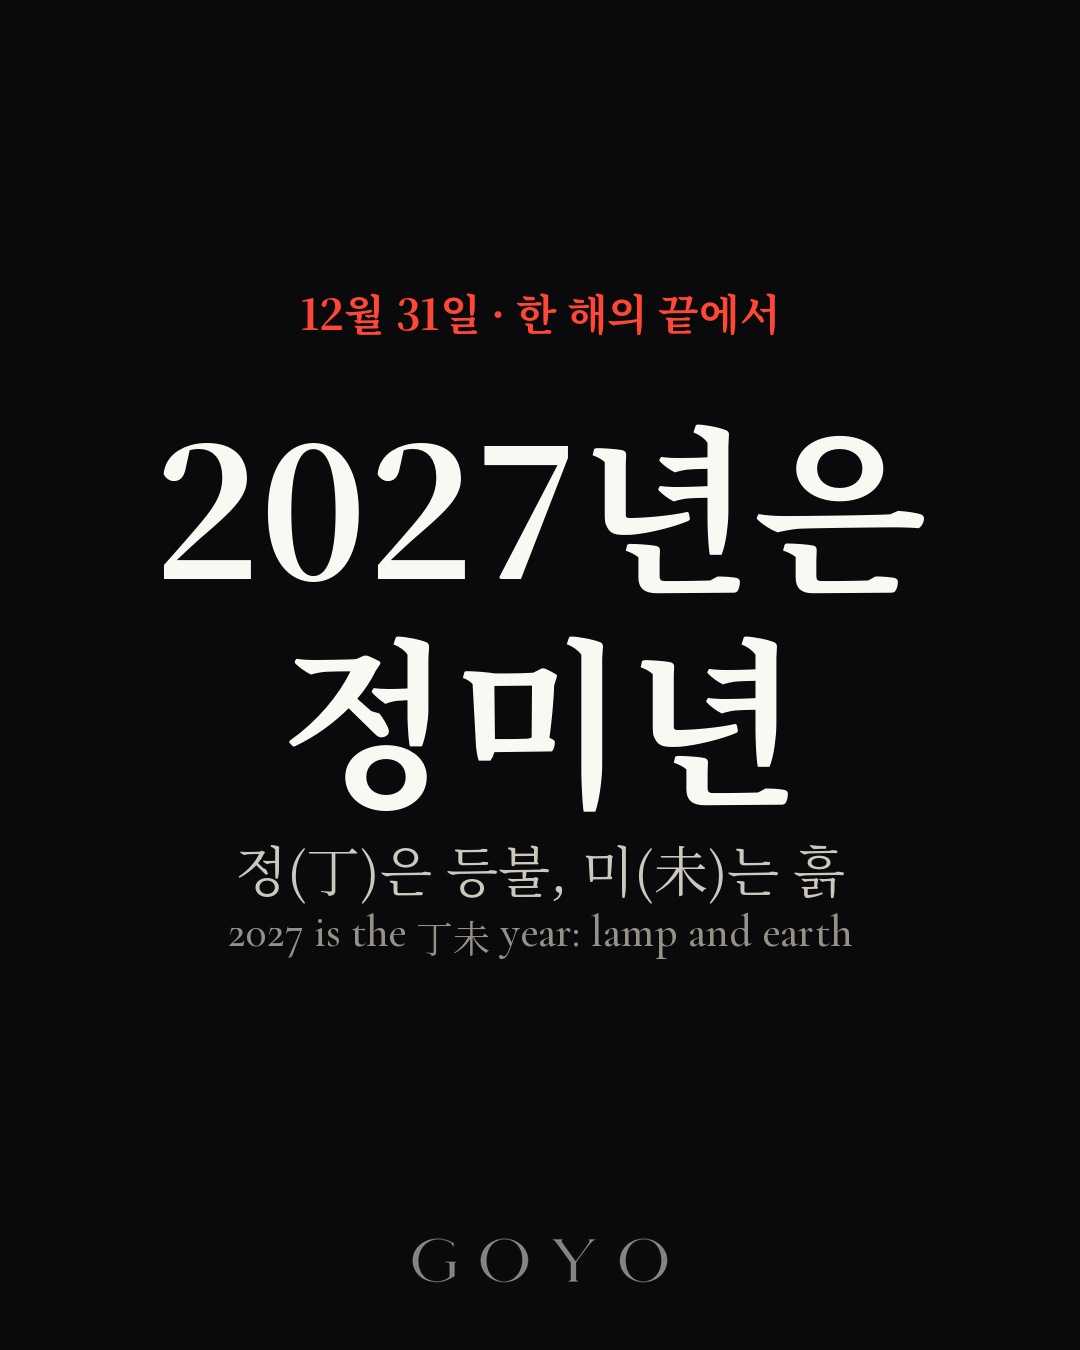
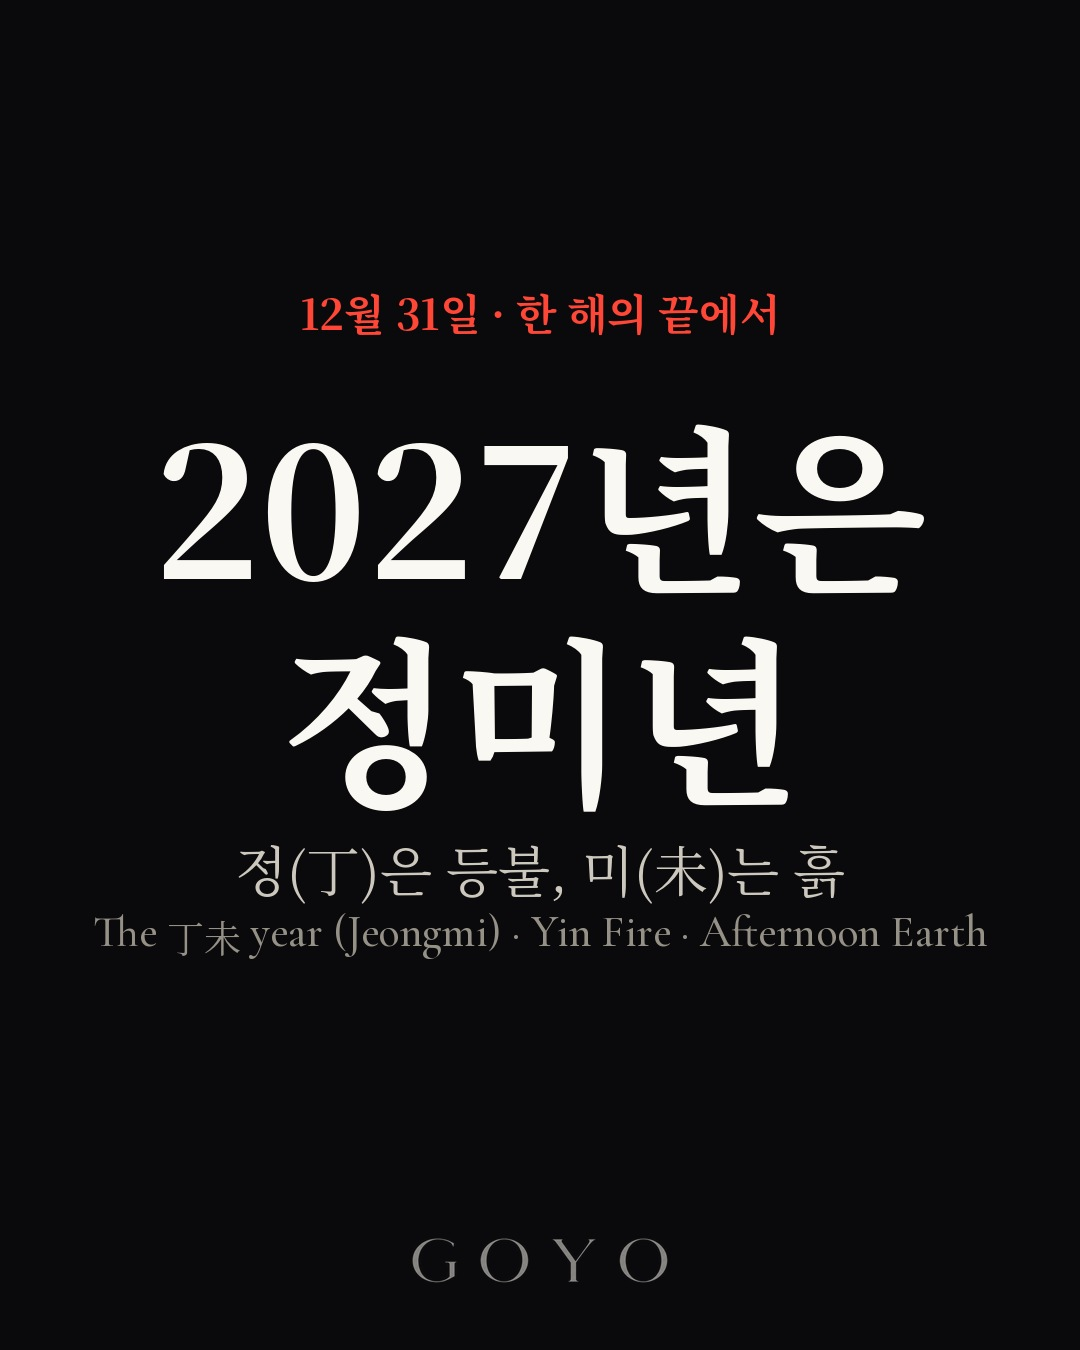
영어 천간·지지 표기 최종 규칙 적용 (총괄 창 11/21 19:50): 12/31, 1/1·1/3·1/4
지지 시각+오행(子 Midnight Water (Jasu) 등), 해 이름 the 丁未 year (Jeongmi) · Yin Fire · Afternoon Earth, 영어 일진 나열은 뺌

Claude-Session: https://claude.ai/code/session_01YKKUv5W4Y1G1o2h4KJ6tQ6

Changed region(s): [[0.1833, 0.6844, 0.9167, 0.7156], [0.0917, 0.6844, 0.1528, 0.7156]]

diff --git a/jeongmi/build.py b/jeongmi/build.py
@@ -28,7 +28,7 @@ P['0101'] = dict(
      T('불이 꺼지는 해라기보다\n불이 무르익는 해로 읽어요.', 44, gap=36),
      T('2025 early, 2026 high, 2027 late summer: summer ripens fully in 2027.', 34, EN, gap=0)], tag='세 해의 여름'),
   S([T('미(未)는 늦여름의 마른 흙,\n나무를 품어 두는\n창고 같은 흙이에요.', 54, gap=34), T('그동안 키운 것을\n조용히 넣어 두는 해예요.', 62, bold=True, gap=36),
-     T('未 is dry late-summer earth that stores what has grown. A year to keep what you raised.', 34, EN, gap=0)], tag='넣어 두는 흙'),
+     T('未 Afternoon Earth (Mito) is dry late-summer earth that stores what has grown. A year to keep what you raised.', 34, EN, gap=0)], tag='넣어 두는 흙'),
   S([
      *IL('갑목', '생각을 말과 손으로 꺼내, 눈에 보이는\n성과로 바꿔 가는 해로 읽을 수 있어요.', 20),
      *IL('을목', '좋아하는 것을 즐기다 보면,\n그것이 움직이는 기회로 이어질 수 있어요.', 20),
@@ -76,13 +76,13 @@ P['0101'] = dict(
 · English ·
 After the big sun, a small lamp.
 
-2027 is the 丁未 year: a year when a blazing fire becomes a small lamp and settles into the earth. If 2026 was 丙, the sun in the sky, then 2027 is 丁, a lamp that keeps lighting what is close. Early summer in 2025, high summer in 2026, late summer in 2027: the three summer years ripen fully in 2027. 未 is late-summer earth, a storehouse that holds Wood, so we read 2027 as a year to quietly keep what you have raised.
+2027 is the 丁未 year (Jeongmi) · Yin Fire · Afternoon Earth: a year when a blazing fire becomes a small lamp and settles into the earth. If 2026 was 丙火 Yang Fire (Byeonghwa), the sun in the sky, then 2027's Yin Fire is a lamp that keeps lighting what is close. Early summer in 2025, high summer in 2026, late summer in 2027: the three summer years ripen fully in 2027. Afternoon Earth is late-summer earth, a storehouse that holds Wood, so we read 2027 as a year to quietly keep what you have raised.
 
 In Saju, the year turns at the start of spring (立春). In 2027, it falls on February 4 at 10:46 a.m. Korea Standard Time.
 
 A one-line reading for each day master is on slides 6 and 7. Find your day master in our free app through the link in bio.
 
-Music true to the year's character, 丁: Five Kinds of Quiet · 丁火 Yin Fire (Jeonghwa). The first track is Lamplit Keys. Listen through the link in bio.
+Music true to the year's own character: Five Kinds of Quiet · Yin Fire. The first track is Lamplit Keys. Listen through the link in bio.
 
 #고요 #정미년 #2027년 #새해 #사주 #오행 #일간 #오행음악 #saju #fiveelements""",
  reel_caption="""큰 해 다음엔, 작은 등불.
@@ -92,9 +92,9 @@ Music true to the year's character, 丁: Five Kinds of Quiet · 丁火 Yin Fire 
 내 일간으로 읽은 2027년은 피드 게시물에 있어요. 지금 흐르는 음악은 『다섯 가지 고요｜정화(丁火)』의 첫 곡 『Lamplit Keys』, 프로필 링크에서 들을 수 있어요.
 
 · English ·
-After the big sun, a small lamp. 2027, the 丁未 year, is when a blazing fire becomes a small lamp and settles into the earth. If 2026 was the sun in the sky, 2027 is a lamp that keeps lighting what is close. In Saju, the year turns at the start of spring (立春), February 4, 10:46 a.m. Korea Standard Time.
+After the big sun, a small lamp. 2027, the 丁未 year (Jeongmi) · Yin Fire · Afternoon Earth, is when a blazing fire becomes a small lamp and settles into the earth. If 2026 was the sun in the sky, 2027 is a lamp that keeps lighting what is close. In Saju, the year turns at the start of spring (立春), February 4, 10:46 a.m. Korea Standard Time.
 
-A reading for each day master is in our feed post. The music is Lamplit Keys from Five Kinds of Quiet · 丁火 Yin Fire (Jeonghwa). Listen through the link in bio.
+A reading for each day master is in our feed post. The music is Lamplit Keys from Five Kinds of Quiet · Yin Fire. Listen through the link in bio.
 
 #고요 #정미년 #2027년 #새해 #사주 #오행음악 #saju""",
 )
@@ -106,14 +106,14 @@ P['0104'] = dict(
   S([T('1월 4일 · 이번 주 기운', 44, GOLD, gap=30), T('내일 밤,\n소한', 112, bold=True, gap=36),
      T('小寒 · 1월 5일 오후 11시 10분', 44, gap=30), T('Minor Cold (小寒) arrives tomorrow night', 38, EN, gap=0)]),
   S([T('1월 5일 오후 11시 10분,\n소한이 드는 순간부터\n사주의 달이 바뀌어요.', 54, gap=34), T('자월(子月)에서\n축월(丑月)로.', 70, bold=True, gap=36),
-     T('At 11:10 p.m. on January 5, the Saju month turns from 子 to 丑.', 34, EN, gap=0)], tag='사주의 달이 바뀌는 밤'),
+     T('At 11:10 p.m. on January 5, the Saju month turns from 子 Midnight Water (Jasu) to 丑 Deep Night Earth (Chukto).', 32, EN, gap=0)], tag='사주의 달이 바뀌는 밤'),
   S([T('소한부터는\n한겨울의 언 흙이 시작돼요.', 62, bold=True, gap=36), T('언 흙에는\n등불 같은 따뜻한 불이\n어울린다고 봐요.', 52, gap=36),
      T('Minor Cold brings the frozen earth of deep winter. A warm, lamp-like fire suits it.', 34, EN, gap=0)], tag='한겨울의 언 흙'),
   S([T('해는 아직 병오년이에요.\n사주의 해는 입춘(2월 4일)에 바뀌어요.', 46, gap=34), T('소한 뒤, 입춘 전에 태어나면\n병오년 축월생이에요.', 60, bold=True, gap=36),
-     T('The year is still 丙午. Born after Minor Cold, before the start of spring (立春)? Then your month is 丑 in the 丙午 year.', 34, EN, gap=0)], tag='해는 아직 그대로'),
+     T('The year is still the 丙午 year (Byeong-o) · Yang Fire · Noon Fire. Born after Minor Cold, before the start of spring (立春)? Your month is Deep Night Earth.', 32, EN, gap=0)], tag='해는 아직 그대로'),
   S([T('월 계미 · 화 갑신 · 수 을유\n목 병술 · 금 정해 · 토 무자\n일 기축', 54, gap=34), T('날마다 앞 글자가\n물 → 나무 → 불 → 흙 순서로 흘러요.', 46, gap=30),
      T('화요일 밤 11시 10분부터 축월이에요.', 40, GOLD, gap=30),
-     T('This week\'s day pillars: 癸未 → 甲申 → 乙酉 → 丙戌 → 丁亥 → 戊子 → 己丑. Minor Cold starts Tuesday night.', 32, EN, gap=0)], tag='이번 주 일진'),
+     T('This week, the first characters run Water → Wood → Fire → Earth. Minor Cold starts Tuesday night.', 32, EN, gap=0)], tag='이번 주 일진'),
   S([T('다섯 가지 고요', 56, bold=True, gap=10), T('정화 편', 96, bold=True, gap=34),
      T('언 흙 곁에 켜 두는\n작은 등불 같은 소리예요.', 52, gap=30), T('음악은 프로필 링크에서', 46, GOLD, gap=30),
      T('Five Kinds of Quiet · 丁火 Yin Fire (Jeonghwa): a small lamp beside frozen earth. Music: link in bio', 32, EN, gap=0)], tag='틀어 두기 좋은 소리'),
@@ -131,11 +131,11 @@ P['0104'] = dict(
 · English ·
 Minor Cold arrives tomorrow night.
 
-At 11:10 p.m. on January 5 (Korea Standard Time), Minor Cold (小寒) begins and the Saju month turns from 子 to 丑. From here comes the frozen earth of deep winter, and a warm, lamp-like fire suits it.
+At 11:10 p.m. on January 5 (Korea Standard Time), Minor Cold (小寒) begins and the Saju month turns from 子 Midnight Water (Jasu) to 丑 Deep Night Earth (Chukto). From here comes the frozen earth of deep winter, and a warm, lamp-like fire suits it.
 
-The year is still 丙午. In Saju, the year turns at the start of spring (立春) on February 4, so anyone born after Minor Cold and before then has a 丑 month in the 丙午 year.
+The year is still the 丙午 year (Byeong-o) · Yang Fire · Noon Fire. In Saju, the year turns at the start of spring (立春) on February 4, so anyone born after Minor Cold and before then has a Deep Night Earth month in that year.
 
-This week's day pillars: 癸未 → 甲申 → 乙酉 → 丙戌 → 丁亥 → 戊子 → 己丑. The first characters flow Water → Wood → Fire → Earth.
+This week, the first characters of the day pillars flow Water → Wood → Fire → Earth.
 
 A small lamp beside frozen earth: Five Kinds of Quiet · 丁火 Yin Fire (Jeonghwa). Listen through the link in bio.
 
@@ -150,17 +150,17 @@ P['0103'] = dict(
      T('2025 · 2026 · 2027', 48, gap=30), T('Summer has lasted three years', 38, EN, gap=0)]),
   S([T('2025 을사 · 초여름\n2026 병오 · 한여름\n2027 정미 · 늦여름', 60, bold=True, gap=36),
      T('사(巳)는 초여름, 오(午)는 한여름,\n미(未)는 늦여름의 글자예요.', 46, gap=36),
-     T('巳 is early summer, 午 is high summer, and 未 is late summer.', 34, EN, gap=0)], tag='세 해의 여름'),
+     T('巳 Midmorning Fire (Sahwa) is early summer, 午 Noon Fire (Ohwa) is high summer, and 未 Afternoon Earth (Mito) is late summer.', 32, EN, gap=0)], tag='세 해의 여름'),
   S([T('2026년 병오는\n해(丙)와 한여름(午)이 겹친\n가장 뜨거운 자리예요.', 58, gap=36),
-     T('In 2026, 丙 (the sun) met 午 (high summer): the hottest point.', 34, EN, gap=0)], tag='한여름'),
+     T('In 2026, 丙火 Yang Fire (Byeonghwa), the sun, met Noon Fire: the hottest point.', 34, EN, gap=0)], tag='한여름'),
   S([T('2027년 정미는\n여름의 마무리예요.', 64, bold=True, gap=34), T('불이 꺼지는 해라기보다\n불이 다 익는 해로 읽어요.', 50, gap=36),
      T('2027 closes the summer. Read it as a year when the fire ripens, not one when it goes out.', 34, EN, gap=0)], tag='늦여름'),
   S([T('1월인 지금은 아직 병오년,\n한여름의 끝자락이에요.', 54, gap=30), T('늦여름은\n입춘(2월 4일)부터.', 64, bold=True, gap=36),
-     T('January is still 丙午, the tail of high summer. The late-summer year (丁未) begins Feb 4, at the start of spring (立春).', 34, EN, gap=0)], tag='지금은 어느 여름일까요'),
+     T('January is still the 丙午 year (Byeong-o), the tail of high summer. The 丁未 year (Jeongmi) · Yin Fire · Afternoon Earth begins Feb 4, at the start of spring (立春).', 32, EN, gap=0)], tag='지금은 어느 여름일까요'),
   S([T('다섯 가지 고요', 56, bold=True, gap=10), T('병화 편', 96, bold=True, gap=34),
      T('한여름의 끝자락,\n한낮의 해 같은 소리예요.', 52, gap=24), T('첫 곡은 『Noon Avenue』예요.', 44, gap=30),
      T('음악은 프로필 링크에서', 46, GOLD, gap=30),
-     T('Five Kinds of Quiet · 丙火 Yang Fire (Byeonghwa). The first track is Noon Avenue. Music: link in bio', 32, EN, gap=0)], tag='틀어 두기 좋은 소리'),
+     T('Five Kinds of Quiet · Yang Fire. The first track is Noon Avenue. Music: link in bio', 32, EN, gap=0)], tag='틀어 두기 좋은 소리'),
  ],
  reel=[
   dict(sec=4.5, instant=True, items=[T('1월 3일', 50, GOLD, gap=34), T('여름이\n세 해 동안\n이어졌어요', 120, bold=True, gap=50), T('Summer has lasted three years', 42, EN, gap=0)]),
@@ -189,11 +189,11 @@ P['0103'] = dict(
 · English ·
 Summer has lasted three years.
 
-2025 (乙巳) was early summer, 2026 (丙午) high summer, and 2027 (丁未) is late summer. 巳, 午 and 未 are the three summer characters, so the three years together make one summer season. 2026 was the hottest point, where 丙 (the sun) met 午 (high summer). 2027 closes the summer. Read it as a year when the fire ripens, not one when it goes out.
+2025 was early summer, 2026 high summer, and 2027 is late summer. The three summer characters are 巳 Midmorning Fire (Sahwa), 午 Noon Fire (Ohwa) and 未 Afternoon Earth (Mito), so the three years together make one summer season. 2026 was the hottest point, where 丙火 Yang Fire (Byeonghwa), the sun, met Noon Fire. 2027 closes the summer. Read it as a year when the fire ripens, not one when it goes out.
 
-Right now, in January, it is still the 丙午 year, the tail end of high summer. In Saju, the year turns at the start of spring (立春) on February 4.
+Right now, in January, it is still the 丙午 year (Byeong-o) · Yang Fire · Noon Fire, the tail end of high summer. In Saju, the year turns at the start of spring (立春) on February 4.
 
-For the tail of high summer: Five Kinds of Quiet · 丙火 Yang Fire (Byeonghwa). The first track is Noon Avenue. Listen through the link in bio.
+For the tail of high summer: Five Kinds of Quiet · Yang Fire. The first track is Noon Avenue. Listen through the link in bio.
 
 #고요 #고요이야기 #정미년 #병오년 #사주 #오행 #오행음악 #saju #fiveelements""",
  reel_caption="""여름이 세 해 동안 이어졌어요.

diff --git a/tools/week_src/cover18.py b/tools/week_src/cover18.py
@@ -53,7 +53,7 @@ S = {
 
 PAINT = {'2026-12-09': ('wl_full.jpg', ['클로드 모네, 〈수련(Water Lilies)〉 1906', '시카고 미술관 · 퍼블릭 도메인(CC0)']), '2026-11-19': (None, ['빌헬름 함메르쇠이, 〈스트란가데의 실내, 바닥의 햇빛〉', '1901 · 덴마크 국립미술관(SMK)']), '2026-11-26': ('se_paint.jpg', ['김정희, 〈세한도(歲寒圖)〉 1844 · 국보', '국립중앙박물관 · 이미지 위키미디어 공용(퍼블릭 도메인)']), '2026-12-03': ('inwang_full.jpg', ['정선, 〈인왕제색도(仁王霽色圖)〉 1751 · 국보', '국립중앙박물관 · 이미지 위키미디어 공용(퍼블릭 도메인)']), '2026-12-10': ('latour_full.jpg', ['조르주 드 라 투르, 〈연기 나는 불꽃 앞의 막달라 마리아〉', '1635~1637년 무렵 · LACMA · 위키미디어 공용(퍼블릭 도메인)']), '2026-12-17': ('millet_full.jpg', ["장프랑수아 밀레, 〈만종(L'Angélus)〉 1857~1859", '오르세 미술관 · 이미지 위키미디어 공용(퍼블릭 도메인)']), '2026-12-24': ('hiro_full.jpg', ['우타가와 히로시게, 〈간바라 밤눈〉 「도카이도 53역참」 중, 1833~1834', '메트로폴리탄 미술관 · 이미지 위키미디어 공용(퍼블릭 도메인)']), '보류-까치': ('monet_full.jpg', ['클로드 모네, 〈까치(La Pie)〉 1868~1869', '오르세 미술관 · 이미지 위키미디어 공용(퍼블릭 도메인)'])}
 
-EN = {'2026-11-18': 'How Goyo makes its music', '2026-11-19': 'Interior in Strandgade, Sunlight on the Floor', '2026-11-20': 'In Korean, five weekdays are named for the elements', '2026-11-22': 'Light Snow (小雪): when first snow is said to fall', '2026-11-23': 'The full moon of the tenth lunar month', '2026-11-25': 'Four words hidden in the name Goyo', '2026-11-26': 'Sehando (Winter Scene) · Kim Jeong-hui', '2026-11-27': 'Why is there Earth in a winter sky?', '2026-11-29': "The earliest sunset isn't on the winter solstice", '2026-11-30': "December, yet in Saju it's still the tenth month", '2026-12-02': 'Each Goyo track title names its heavenly stem', '2026-12-03': 'Clearing After Rain on Mount Inwang · Jeong Seon', '2026-12-04': "What 'jeong' means in Korean midnight and noon", '2026-12-06': 'New to Goyo? Where to start listening', '2026-12-07': 'Today Saju enters the Midwinter Water month (子)', '2026-12-09': 'Water Lilies · Claude Monet', '2026-12-10': 'Magdalene with the Smoking Flame · Georges de La Tour', '2026-12-11': 'Why Saju apps give different results', '2026-12-13': 'Why the rainbow has seven colors: the musical scale', '2026-12-14': 'The long nights of the eleventh lunar month', '2026-12-16': 'Five Goyo playlists, five times of day', '2026-12-17': 'The Angelus · Jean-François Millet', '2026-12-18': "Why Korea's 60th birthday falls at 61", '2026-12-20': 'Lo-fi first meant low fidelity', '2026-12-21': 'Tomorrow is the winter solstice', '2026-12-23': 'Gaeun (開運) means opening, not changing', '2026-12-24': 'Kambara: Night Snow · Utagawa Hiroshige', '2026-12-25': 'No birth time? You can still read your Saju', '2026-12-27': "Why does Korea's New Year bell ring 33 times?", '2026-12-30': 'Goyo on one map: our last story of the year', '2026-12-31': '2027 is the 丁未 year: lamp and earth', '보류-까치': 'The Magpie · Claude Monet', '2026-11-21': "Saju's new year starts in early February", '2026-11-24': 'Of your eight characters, one is you', '2026-11-28': 'Lots of Fire in your chart?', '2026-12-01': 'Lots of Metal in your chart?', '2026-12-05': 'Morning person or night owl?', '2026-12-08': "What's your favorite color?", '2026-12-12': 'Lots of Wood in your chart?', '2026-12-15': 'Lots of Earth in your chart?', '2026-12-19': 'Gaeun (開運) means opening, not waiting', '2026-12-22': 'Yang Wood and Yin Wood: the same tree?', '2026-12-26': 'Do you play just any music when you study?', '2026-12-29': "What's your favorite day of the week?"}
+EN = {'2026-11-18': 'How Goyo makes its music', '2026-11-19': 'Interior in Strandgade, Sunlight on the Floor', '2026-11-20': 'In Korean, five weekdays are named for the elements', '2026-11-22': 'Light Snow (小雪): when first snow is said to fall', '2026-11-23': 'The full moon of the tenth lunar month', '2026-11-25': 'Four words hidden in the name Goyo', '2026-11-26': 'Sehando (Winter Scene) · Kim Jeong-hui', '2026-11-27': 'Why is there Earth in a winter sky?', '2026-11-29': "The earliest sunset isn't on the winter solstice", '2026-11-30': "December, yet in Saju it's still the tenth month", '2026-12-02': 'Each Goyo track title names its heavenly stem', '2026-12-03': 'Clearing After Rain on Mount Inwang · Jeong Seon', '2026-12-04': "What 'jeong' means in Korean midnight and noon", '2026-12-06': 'New to Goyo? Where to start listening', '2026-12-07': 'Today Saju enters the Midwinter Water month (子)', '2026-12-09': 'Water Lilies · Claude Monet', '2026-12-10': 'Magdalene with the Smoking Flame · Georges de La Tour', '2026-12-11': 'Why Saju apps give different results', '2026-12-13': 'Why the rainbow has seven colors: the musical scale', '2026-12-14': 'The long nights of the eleventh lunar month', '2026-12-16': 'Five Goyo playlists, five times of day', '2026-12-17': 'The Angelus · Jean-François Millet', '2026-12-18': "Why Korea's 60th birthday falls at 61", '2026-12-20': 'Lo-fi first meant low fidelity', '2026-12-21': 'Tomorrow is the winter solstice', '2026-12-23': 'Gaeun (開運) means opening, not changing', '2026-12-24': 'Kambara: Night Snow · Utagawa Hiroshige', '2026-12-25': 'No birth time? You can still read your Saju', '2026-12-27': "Why does Korea's New Year bell ring 33 times?", '2026-12-30': 'Goyo on one map: our last story of the year', '2026-12-31': 'The 丁未 year (Jeongmi) · Yin Fire · Afternoon Earth', '보류-까치': 'The Magpie · Claude Monet', '2026-11-21': "Saju's new year starts in early February", '2026-11-24': 'Of your eight characters, one is you', '2026-11-28': 'Lots of Fire in your chart?', '2026-12-01': 'Lots of Metal in your chart?', '2026-12-05': 'Morning person or night owl?', '2026-12-08': "What's your favorite color?", '2026-12-12': 'Lots of Wood in your chart?', '2026-12-15': 'Lots of Earth in your chart?', '2026-12-19': 'Gaeun (開運) means opening, not waiting', '2026-12-22': 'Yang Wood and Yin Wood: the same tree?', '2026-12-26': 'Do you play just any music when you study?', '2026-12-29': "What's your favorite day of the week?"}
 
 
 def ct(d, y, t, f, fill):
